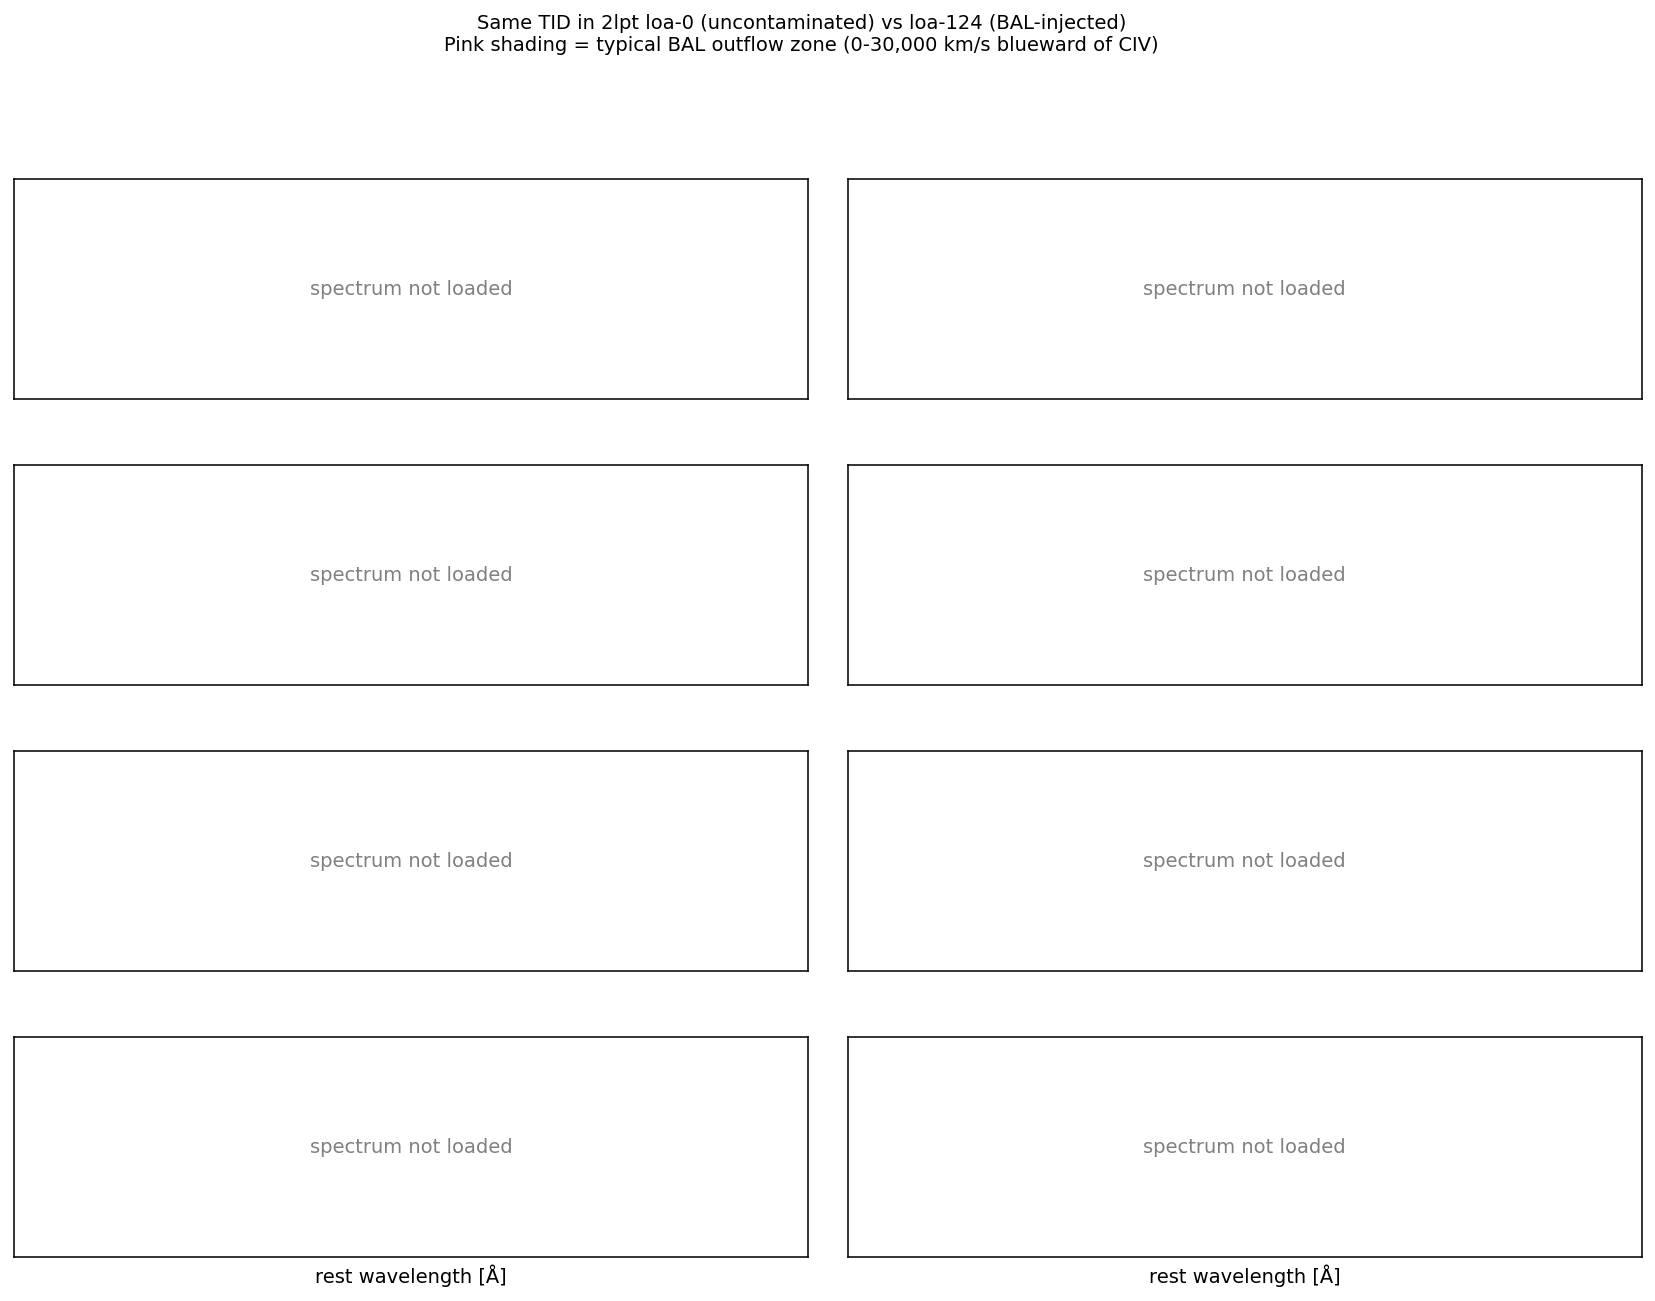
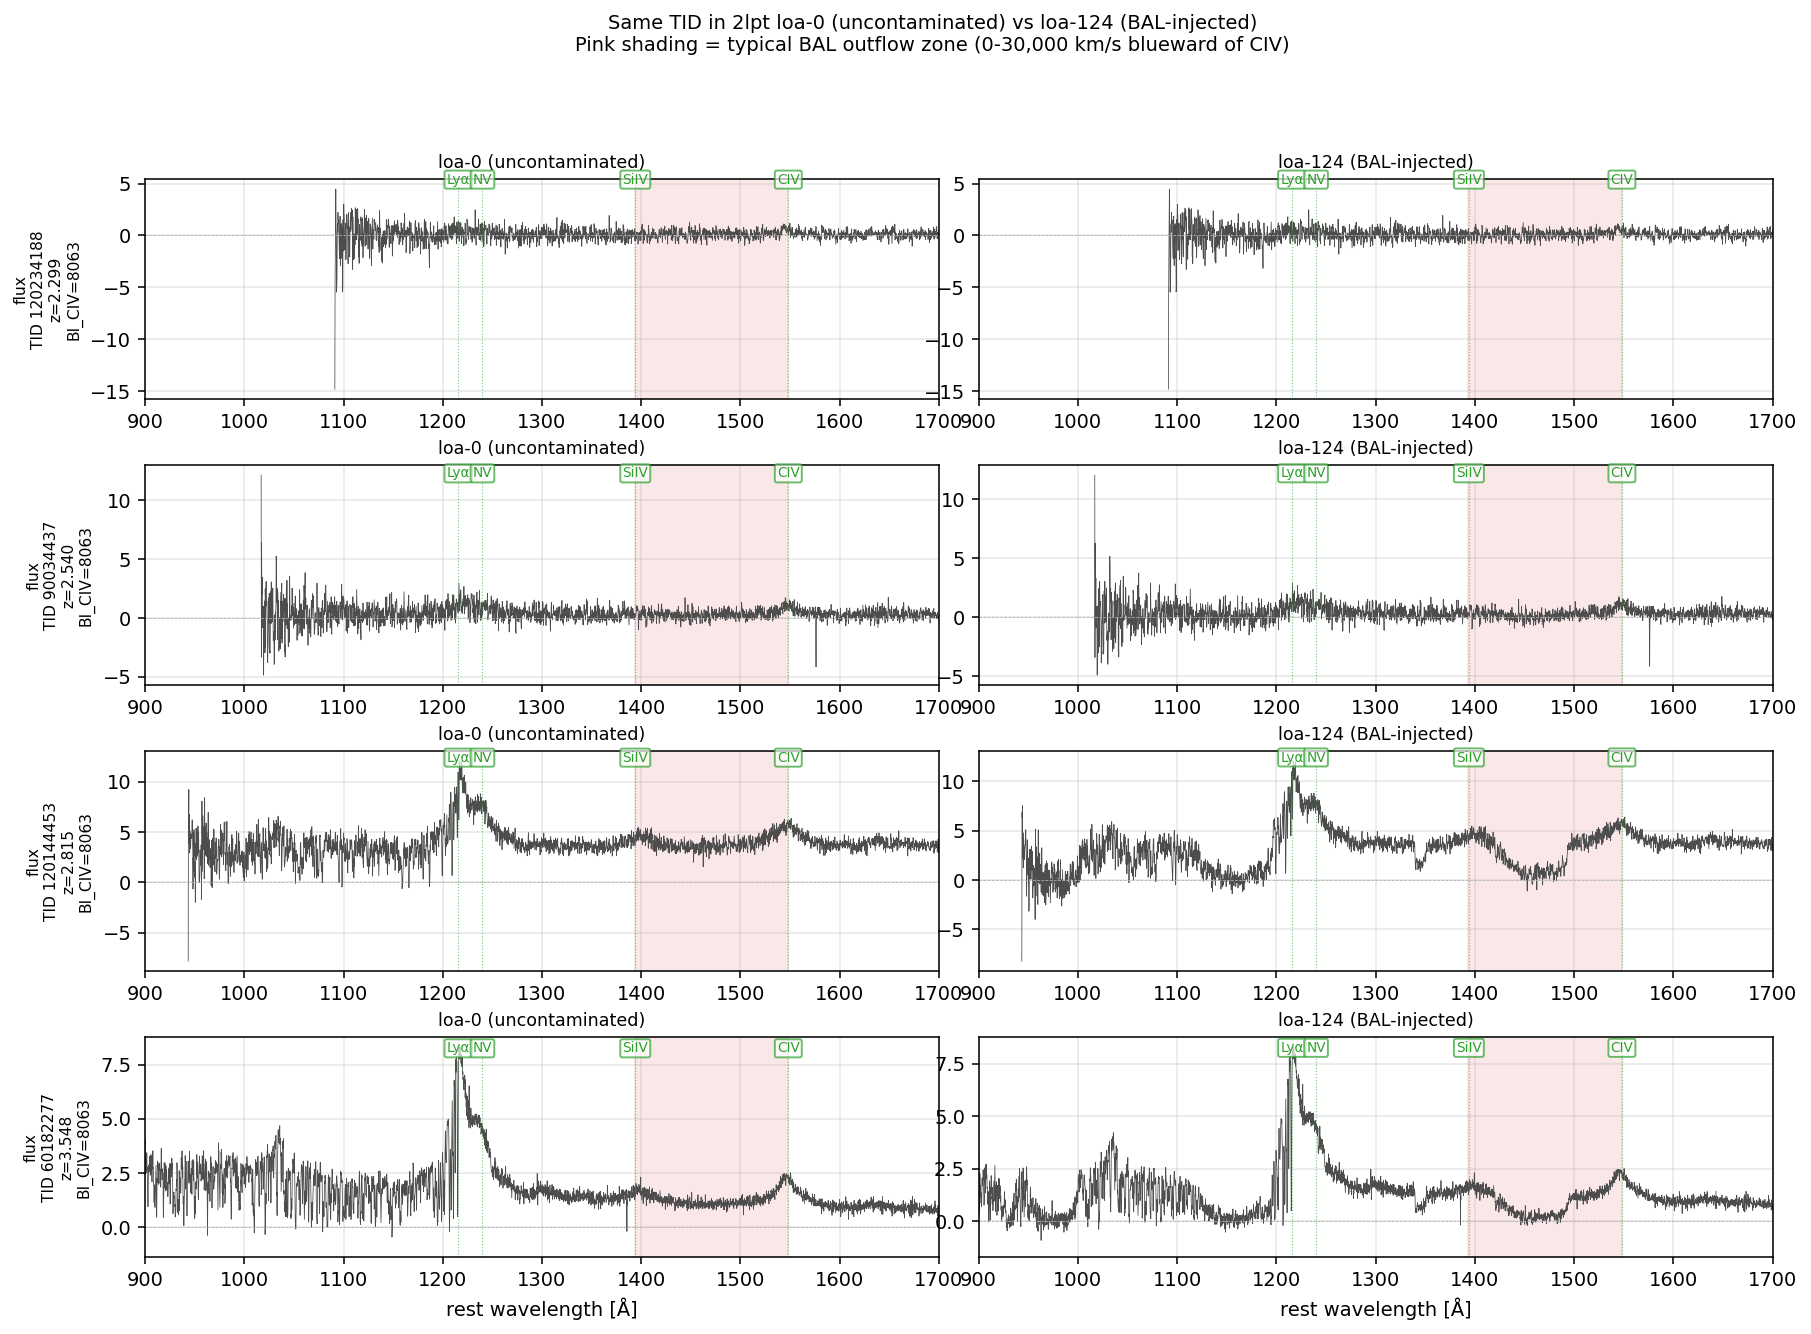
plot_bal_loa0_vs_loa124: reuse load_one_desi_spectrum for IO
User caught two bugs:
1. Was computing hpx at NSIDE=64 (wrong; spectra-16 layout is NSIDE=16)
2. Was reinventing camera-coadd IO (failing on mock spectra). Should
   reuse the existing examples.smoke_one_spectrum.load_one_desi_spectrum
   which already handles the mock fallback path (resample +
   truth-file resolution lookup) — same pattern as dlasearch.py.

Both fixed. 4 TIDs × 2 mock realizations now load successfully (8
spectra in figure). hpx values are NSIDE=16 (773, 605, 792, 385).

Figure should now show:
  - left col: loa-0 spectrum (uncontaminated mock realization)
  - right col: loa-124 spectrum (BAL-injected mock realization)
  - same TID, same z, same QSO sky position
  - if hypothesis correct: only loa-124 shows BAL trough features
    blueward of CIV (pink-shaded zone)

diff --git a/examples/plot_bal_loa0_vs_loa124.py b/examples/plot_bal_loa0_vs_loa124.py
@@ -42,35 +42,27 @@ for p in picks:
 
 
 def find_and_load(tid, base, healpix_for_tid):
-    """Locate spectra-16-N.fits containing TID, load + camera-coadd."""
+    """Reuse examples.smoke_one_spectrum.load_one_desi_spectrum which
+    already handles the mock camera-coadd + truth-file resolution
+    fallback. Don't reinvent IO."""
+    from examples.smoke_one_spectrum import load_one_desi_spectrum
     hpx = healpix_for_tid
-    # Files are organized as spectra-16/{hpx//100}/{hpx}/spectra-16-{hpx}.fits
     spec_path = f"{base}/spectra-16/{hpx // 100}/{hpx}/spectra-16-{hpx}.fits"
     if not os.path.exists(spec_path):
         return None
-    with warnings.catch_warnings():
-        warnings.simplefilter("ignore")
-        spec = desispec.io.read_spectra(spec_path, targetids=[int(tid)])
-        try:
-            from desispec.coaddition import coadd_cameras
-            spec = coadd_cameras(spec)
-        except Exception:
-            return None
-    fmap = spec.fibermap
-    idx = np.where(fmap["TARGETID"] == int(tid))[0]
-    if len(idx) == 0:
+    try:
+        wave, flux, nv, mask = load_one_desi_spectrum(spec_path, int(tid))
+        return dict(wave=wave, flux=flux, nv=nv, mask=mask)
+    except Exception as e:
+        print(f"    [warn] tid {tid} ({spec_path}): {e}")
         return None
-    i = int(idx[0])
-    return dict(
-        wave=spec.wave["brz"],
-        flux=spec.flux["brz"][i],
-        ivar=spec.ivar["brz"][i],
-    )
 
 
-def healpix_for_tid_via_zcat(tid, zcat_path):
-    """The mock zcat has TARGETID + healpix info? Try HPXPIXEL or
-    derive from RA/DEC."""
+def healpix_for_tid_via_zcat(tid, zcat_path, nside=16):
+    """Compute NSIDE=16 HPXPIXEL for TID from zcat's RA/DEC.
+    spectra-16-N.fits files are organized at NSIDE=16 (DESI's
+    'spectra-16' = nside-16 healpix grouping) — confirmed by
+    listing spectra-16/ subdirs (max hpx ≈ 998 = 12*16²-1)."""
     cols = fitsio.FITS(zcat_path)[1].get_colnames()
     if "HPXPIXEL" in cols:
         d = fitsio.read(zcat_path, columns=["TARGETID", "HPXPIXEL"])
@@ -78,7 +70,6 @@ def healpix_for_tid_via_zcat(tid, zcat_path):
         if len(idx) == 0:
             return None
         return int(d["HPXPIXEL"][idx[0]])
-    # else compute from RA/DEC
     if "TARGET_RA" in cols and "TARGET_DEC" in cols:
         d = fitsio.read(zcat_path, columns=["TARGETID", "TARGET_RA", "TARGET_DEC"])
         idx = np.where(d["TARGETID"] == int(tid))[0]
@@ -87,7 +78,8 @@ def healpix_for_tid_via_zcat(tid, zcat_path):
         import healpy as hp
         ra = float(d["TARGET_RA"][idx[0]])
         dec = float(d["TARGET_DEC"][idx[0]])
-        return int(hp.ang2pix(64, ra, dec, lonlat=True, nest=True))
+        # DESI standard for spectra-16 is NESTED ordering at nside=16.
+        return int(hp.ang2pix(nside, ra, dec, lonlat=True, nest=True))
     return None
 
 
@@ -121,11 +113,8 @@ for row, pick in enumerate(picks):
                     ha="center", va="center", fontsize=10, color="0.5")
             ax.set_xticks([]); ax.set_yticks([])
             continue
-        wave = spec["wave"]
-        flux = spec["flux"]
-        # rest wavelength axis = wave / (1+z)
-        rest = wave / (1.0 + z_qso)
-        ax.plot(rest, flux, color="0.3", lw=0.4)
+        rest = spec["wave"] / (1.0 + z_qso)
+        ax.plot(rest, spec["flux"], color="0.3", lw=0.4)
         ax.axhline(0, color="0.7", lw=0.4, ls="--")
         # mark lines + BAL outflow zone
         for lname, lwave in LINES.items():
